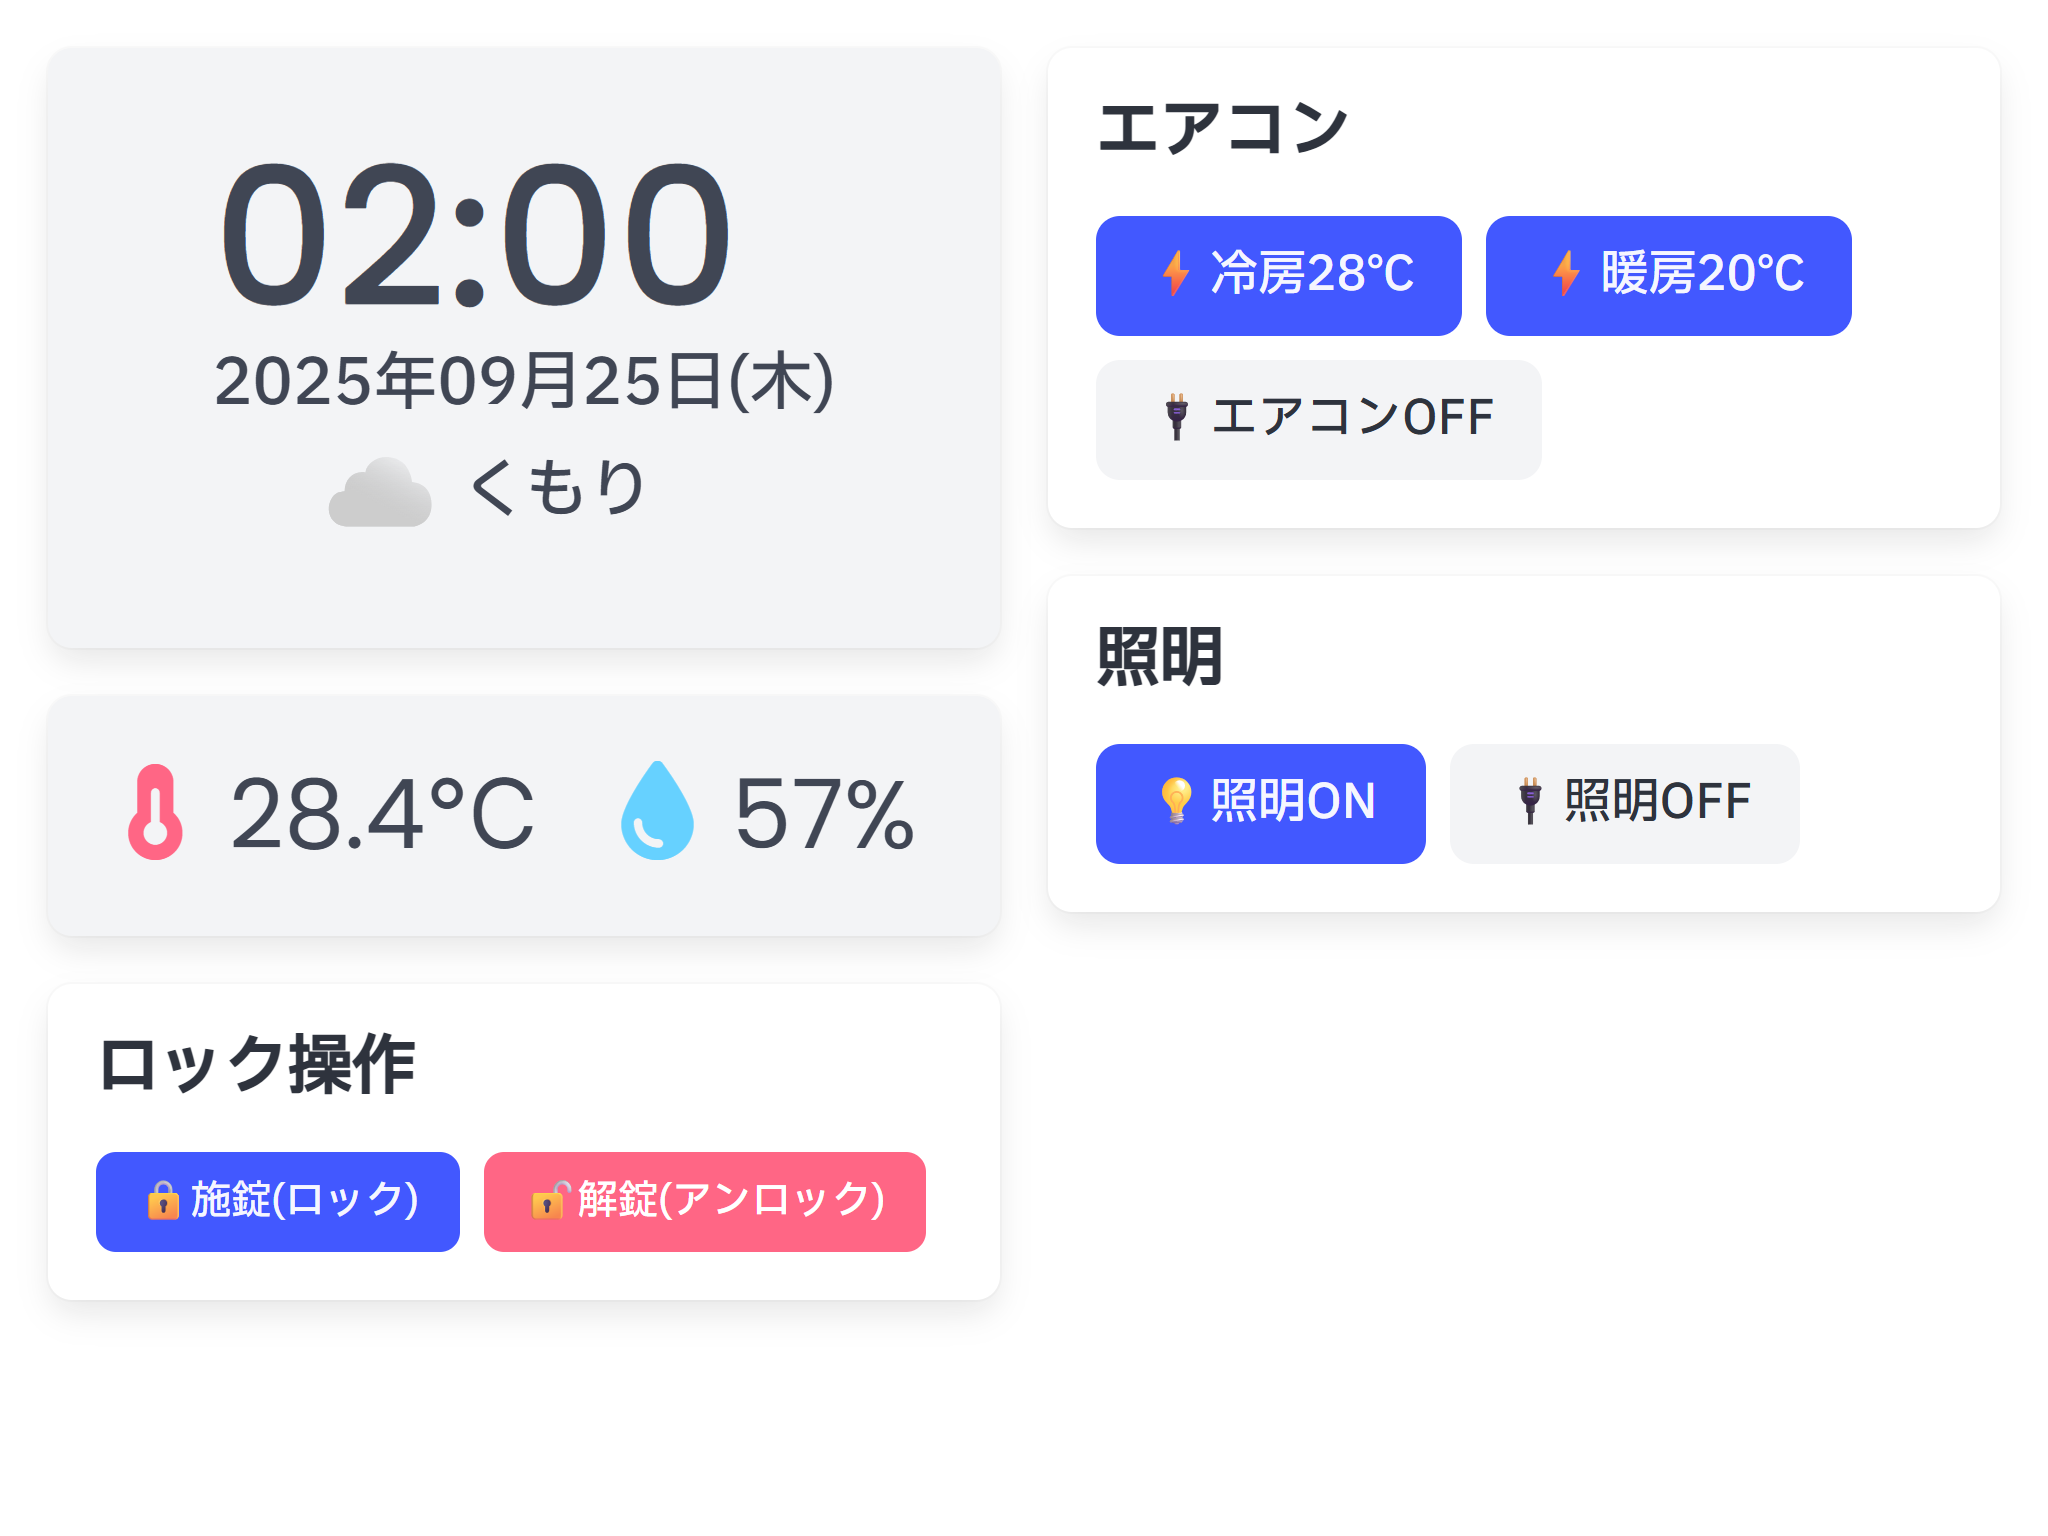
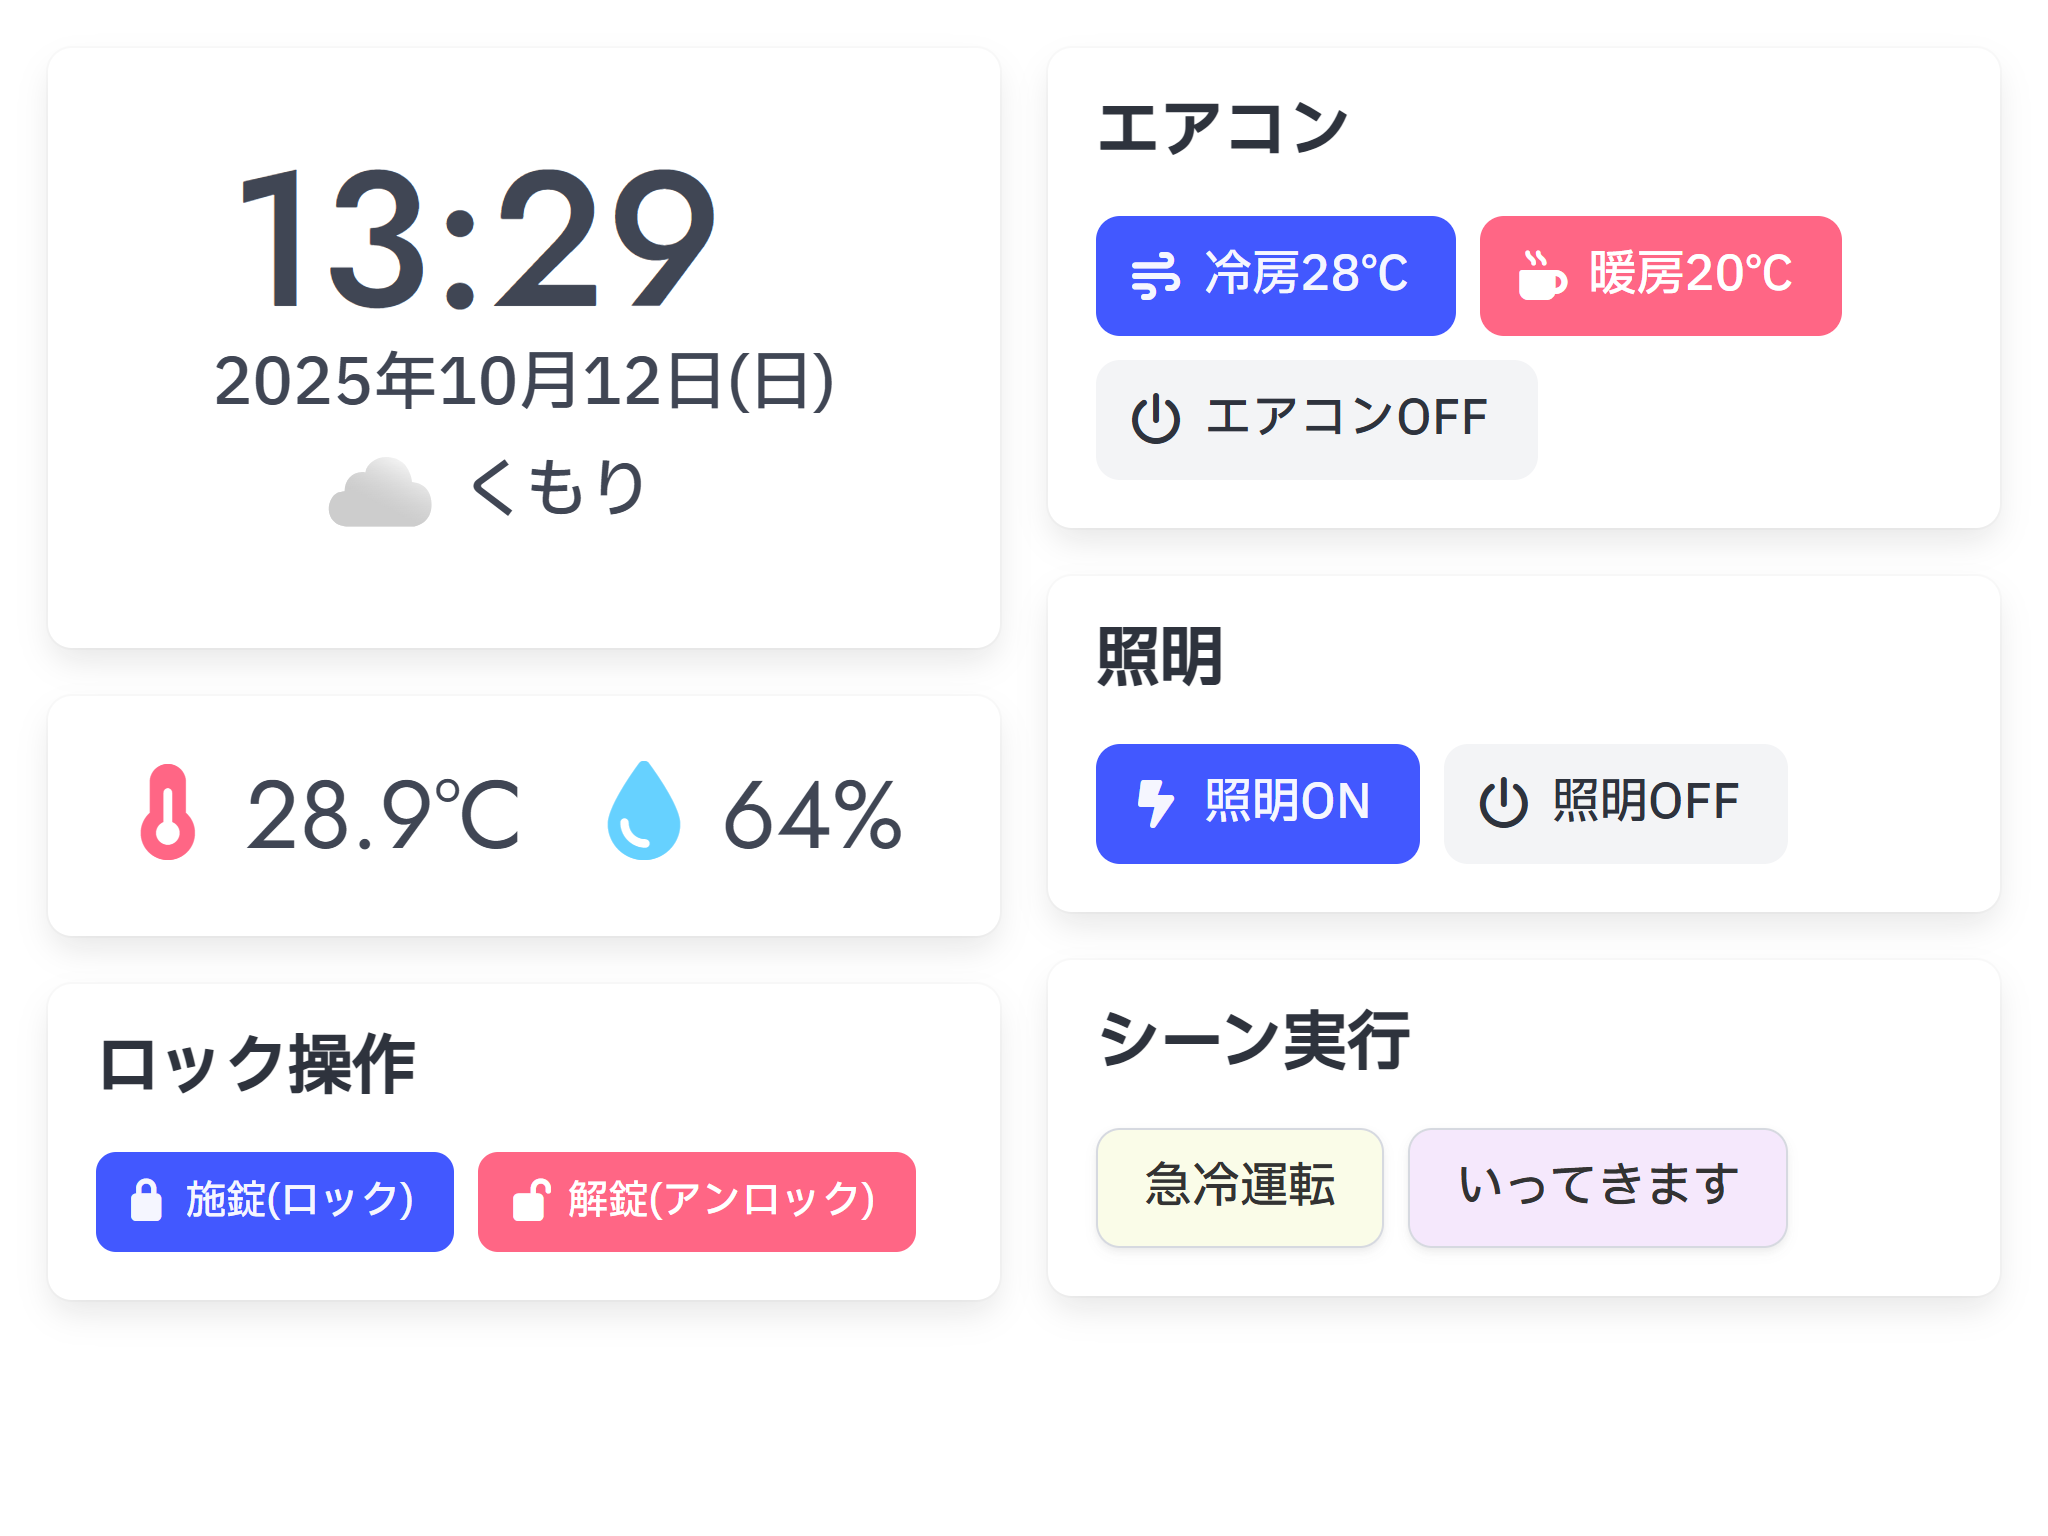
v1.1リリースにあたってREADMEとスクショを修正 & 時計がずれる問題を修正

diff --git a/src/index.html b/src/index.html
@@ -25,10 +25,9 @@
         }
 
         .clock-container {
-            font-size: 6rem;
+            font-size: 7rem;
             line-height: 1;
             text-align: center;
-            padding-right: 3rem;
             font-family: "Jost", sans-serif;
             font-weight: 500;
         }
@@ -66,7 +65,7 @@
             <div class="column is-half">
                 <div class="box p-6">
                     <div
-                        class="is-flex is-justify-content-center is-align-items-center is-flex-wrap-wrap has-text-centered">
+                        class="is-flex is-justify-content-center is-align-items-center is-flex-wrap-wrap has-text-centered" style="gap: 0 2rem;">
                         <div class="clock-container">
                             <span id="clock">
                                 --:--

diff --git a/README.md b/README.md
@@ -36,6 +36,7 @@ docker compose up -d
 - ユーザー認証が必要な場合は各自で `.htaccess` を設定するなどのご対応をお願いします。
 - スマホ等の小さい画面ではUIが崩れます。タブレットやPCでご利用ください。というかスマホならアプリのほうが断然使いやすいのでそちらを推奨します。
 - 天気情報取得に気象庁の非公式API(公式サイトだがサービス稼働保証なし)を使用しているため、取得ができなくなった場合等で気象庁に問い合わせるのはご遠慮ください。(GitHubのIssueまでお願いします)
+- シーン実行機能について、デフォルトではシーン名の先端に「_(アンダーバー)」がついている場合は表示しない設定になっております。アンダーバー付きの項目も表示させたい場合は `src/assets/main.js` 内の `if(scene.sceneName.startsWith('_')) return;` という行を消すかコメントアウトしてください。
 
 ## Special Thanks
 
@@ -44,7 +45,7 @@ docker compose up -d
 - [Bulma](https://bulma.io/)
 - [Font Awesome](https://fontawesome.com/)
 - [IBM Plex Sans JP](https://fonts.google.com/specimen/IBM+Plex+Sans+JP)
-- [Poppins](https://fonts.google.com/specimen/Poppins)
+- [Jost](https://fonts.google.com/specimen/Jost)
 - [気象庁 Webサイト](https://www.jma.go.jp/jma/index.html)
 
 ## ライセンス
